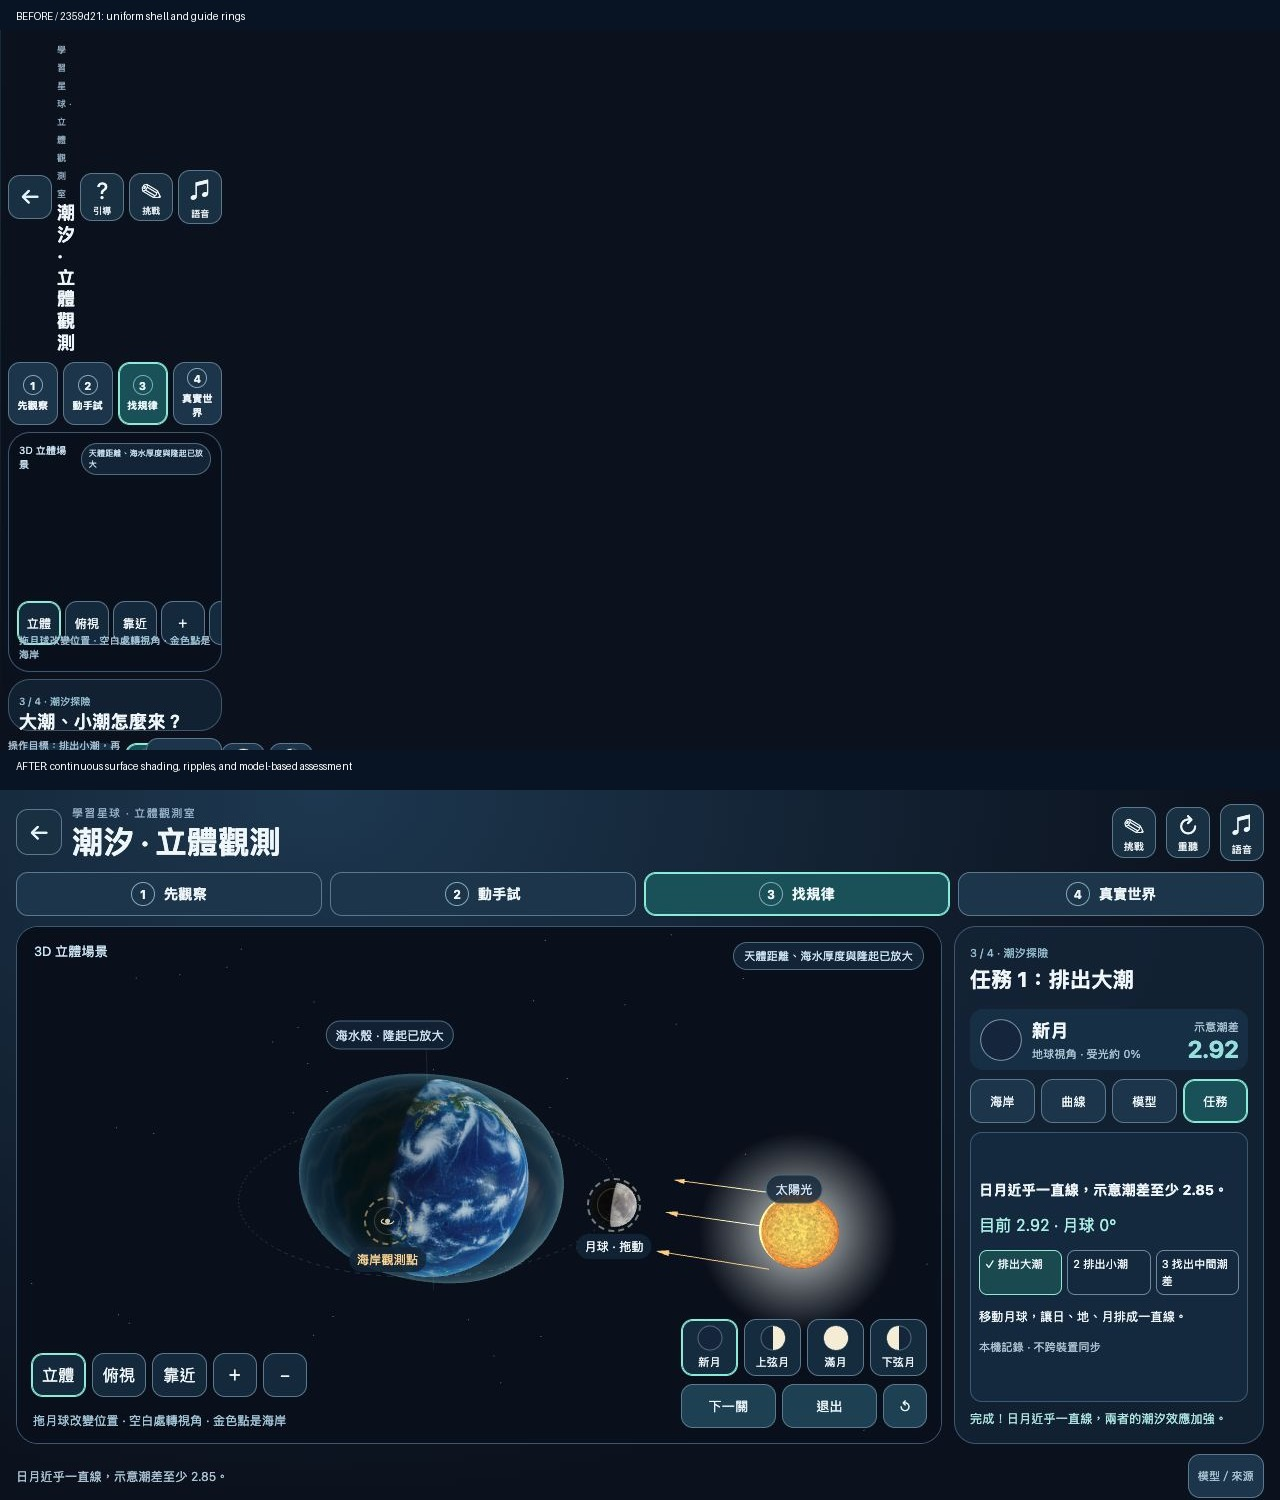
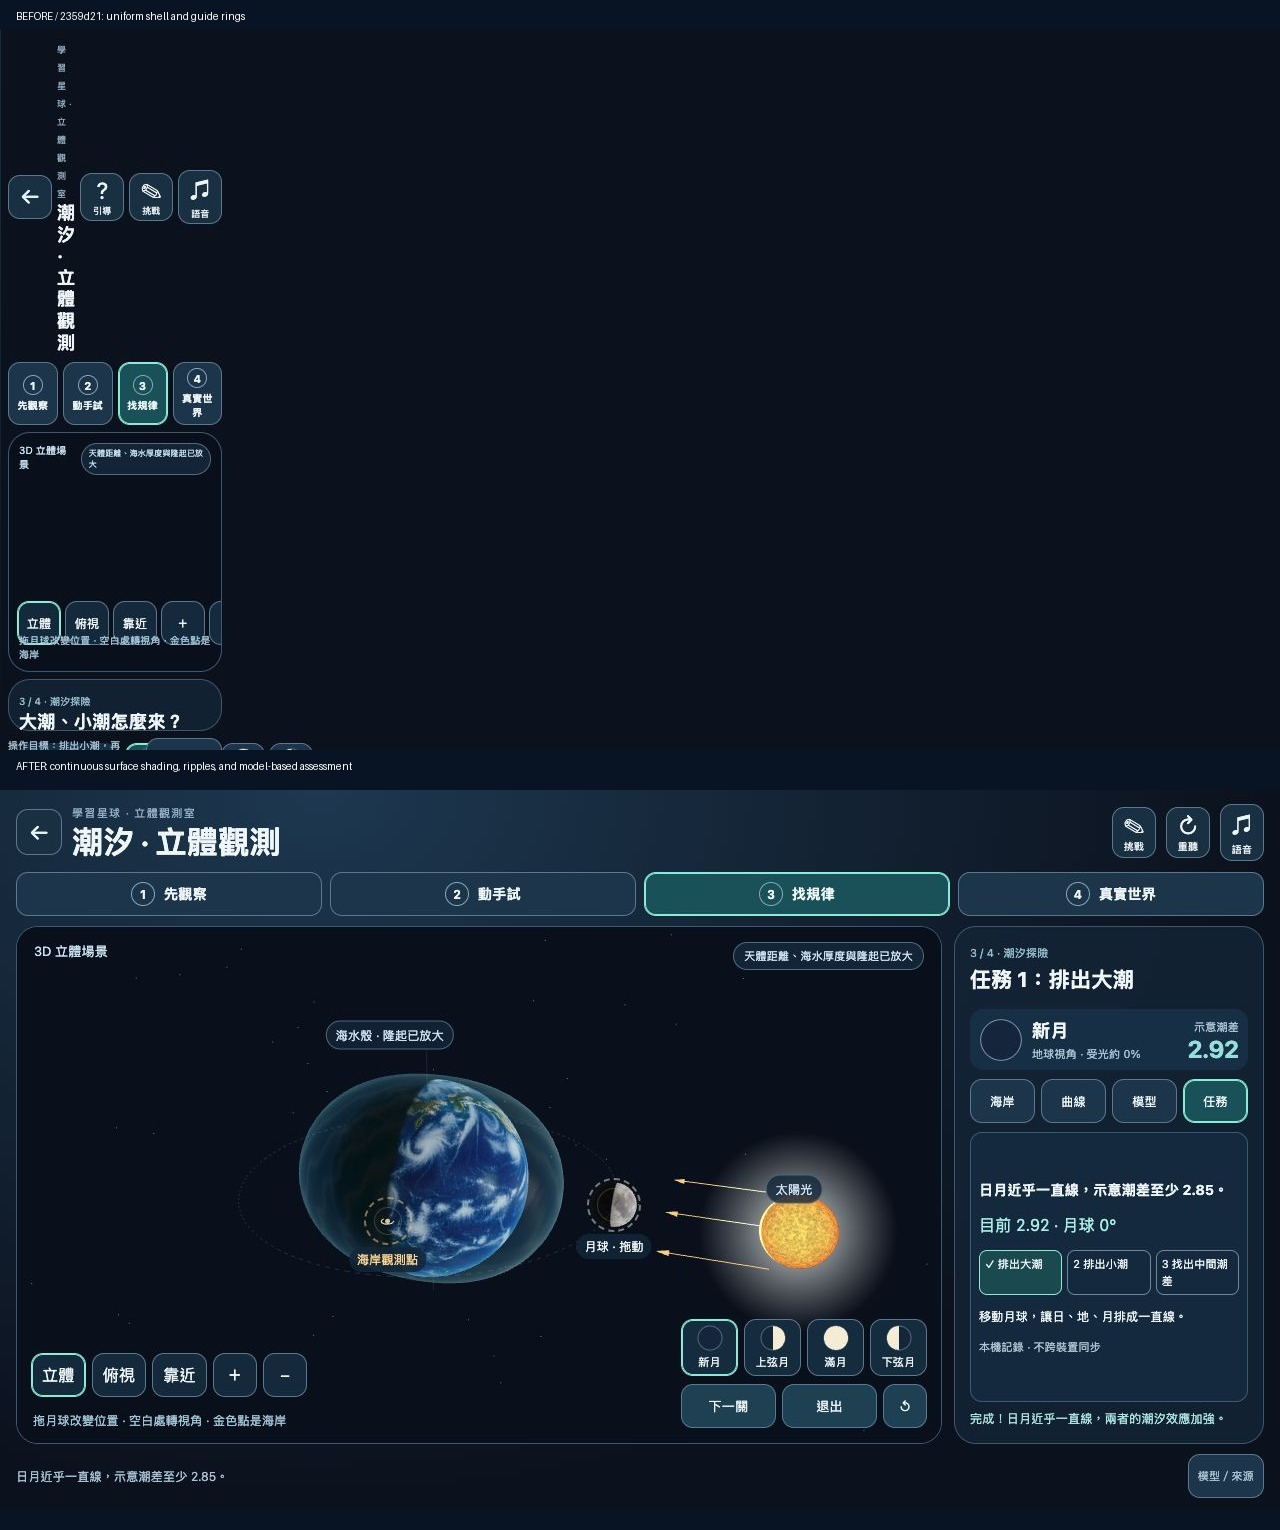
fix: retain paused WebGL surface and verify painted scene pixels

Changed region(s): [[0.0, 0.368, 1.0, 1.0], [0.0, 0.092, 0.1875, 0.3373], [0.0, 0.8587, 0.25, 1.0]]

diff --git a/src/tides3d/stage.ts b/src/tides3d/stage.ts
@@ -18,7 +18,7 @@ export class TideStage{
  private readonly up=()=>{if(this.drag||this.dragObserver){this.drag=false;this.dragObserver=false;this.orbit.enabled=true;this.onFinish();}};
  constructor(private host:HTMLElement,earthTexture:T.Texture,moonTexture:T.Texture,private onChange:(kind:'moon'|'observer',value:number)=>void,private onFinish:()=>void,private onTick:(dt:number)=>void,private moonMode=false){
   this.earthTexture=earthTexture;this.moonTexture=moonTexture;earthTexture.colorSpace=T.NoColorSpace;moonTexture.colorSpace=T.NoColorSpace;earthTexture.anisotropy=4;moonTexture.anisotropy=4;
-  this.scene.background=new T.Color(0x050e1d);this.renderer=new T.WebGLRenderer({antialias:true,powerPreference:'low-power'});this.renderer.setPixelRatio(Math.min(devicePixelRatio,1.6));this.renderer.toneMapping=T.ACESFilmicToneMapping;this.renderer.toneMappingExposure=1.12;host.prepend(this.renderer.domElement);
+  this.scene.background=new T.Color(0x050e1d);this.renderer=new T.WebGLRenderer({antialias:true,preserveDrawingBuffer:true,powerPreference:'low-power'});this.renderer.setPixelRatio(Math.min(devicePixelRatio,1.6));this.renderer.toneMapping=T.ACESFilmicToneMapping;this.renderer.toneMappingExposure=1.12;host.prepend(this.renderer.domElement);
   const canvas=this.renderer.domElement;canvas.setAttribute('role','img');canvas.setAttribute('aria-label',moonMode?'可旋轉的立體地球與月球。空白處拖曳轉視角。':'可旋轉的立體地球、月球與理想海水殼。空白處拖曳轉視角。');
   this.orbit=new OrbitControls(this.camera,canvas);this.orbit.enablePan=false;this.orbit.enableDamping=true;this.orbit.dampingFactor=.09;this.orbit.minDistance=7;this.orbit.maxDistance=25;this.orbit.minPolarAngle=.12;this.orbit.maxPolarAngle=Math.PI*.48;this.orbit.addEventListener('change',this.onControls);
   this.earth=new T.Mesh(new T.SphereGeometry(EARTH_RADIUS,96,64),planetMaterial(earthTexture,this.sun));this.earth.rotation.y=2.3;this.scene.add(this.earth);

diff --git a/modules/tides3d/tides3d.js b/modules/tides3d/tides3d.js
@@ -20982,7 +20982,7 @@ function Ha(i, t) {
 }
 class ro {
   constructor(t, e, n, s, r, a, o = !1) {
-    this.host = t, this.onChange = s, this.onFinish = r, this.onTick = a, this.moonMode = o, this.earthTexture = e, this.moonTexture = n, e.colorSpace = an, n.colorSpace = an, e.anisotropy = 4, n.anisotropy = 4, this.scene.background = new Wt(331293), this.renderer = new Lm({ antialias: !0, powerPreference: "low-power" }), this.renderer.setPixelRatio(Math.min(devicePixelRatio, 1.6)), this.renderer.toneMapping = Al, this.renderer.toneMappingExposure = 1.12, t.prepend(this.renderer.domElement);
+    this.host = t, this.onChange = s, this.onFinish = r, this.onTick = a, this.moonMode = o, this.earthTexture = e, this.moonTexture = n, e.colorSpace = an, n.colorSpace = an, e.anisotropy = 4, n.anisotropy = 4, this.scene.background = new Wt(331293), this.renderer = new Lm({ antialias: !0, preserveDrawingBuffer: !0, powerPreference: "low-power" }), this.renderer.setPixelRatio(Math.min(devicePixelRatio, 1.6)), this.renderer.toneMapping = Al, this.renderer.toneMappingExposure = 1.12, t.prepend(this.renderer.domElement);
     const c = this.renderer.domElement;
     c.setAttribute("role", "img"), c.setAttribute("aria-label", o ? "可旋轉的立體地球與月球。空白處拖曳轉視角。" : "可旋轉的立體地球、月球與理想海水殼。空白處拖曳轉視角。"), this.orbit = new Im(this.camera, c), this.orbit.enablePan = !1, this.orbit.enableDamping = !0, this.orbit.dampingFactor = 0.09, this.orbit.minDistance = 7, this.orbit.maxDistance = 25, this.orbit.minPolarAngle = 0.12, this.orbit.maxPolarAngle = Math.PI * 0.48, this.orbit.addEventListener("change", this.onControls), this.earth = new Se(new qn($m, 96, 64), Sl(e, this.sun)), this.earth.rotation.y = 2.3, this.scene.add(this.earth), this.moon = new Se(new qn(0.42, 48, 32), Sl(n, this.sun, !0)), this.scene.add(this.moon);
     const l = this.shellGeometry.attributes.position;

diff --git a/qa/tides-3d/refinement/REVIEW.md b/qa/tides-3d/refinement/REVIEW.md
@@ -10,7 +10,7 @@
 
 ## 實看證據
 
-六尺寸各0、45、90、180、270度共30張 `*-water-*.png`；六尺寸 `*-mission.png`，手機另有場景和任務切換畫面。考核頁所有尺寸側欄 overflow=0，頁寬高均符合 viewport。原尺寸圖與 contact 縮圖均人工檢查。390下弦有一張擷取未帶出canvas，重做相同位置並檢查實際顯示與瀏覽器日誌正常後重拍，沒有以黑圖作驗收。
+六尺寸各0、45、90、180、270度共30張 `*-water-*.png`；六尺寸 `*-mission.png`，手機另有場景和任務切換畫面。考核頁所有尺寸側欄 overflow=0，頁寬高均符合 viewport。原尺寸圖與 contact 縮圖均人工檢查。批次擷取發現兩張靜止畫面未帶出 canvas；為隨需渲染保留 drawing buffer，避免已繪完的 WebGL 內容被清空後截成黑圖。重拍並檢查完整場景及瀏覽器日誌，不以黑圖作驗收。
 
 本輪重新打開使用者 X 連結，按播放後實看約8.2秒處的連續海面、光感與同步面板。參考仍比本版有較亮、精緻的地表／海面質感；本版改用較柔和的吸收光與細波紋，沒有宣稱視覺已完全相同。X素材未加入應用。比較圖 `before-after.jpg` 只包含我們自己的修正前後實際截圖。
 
